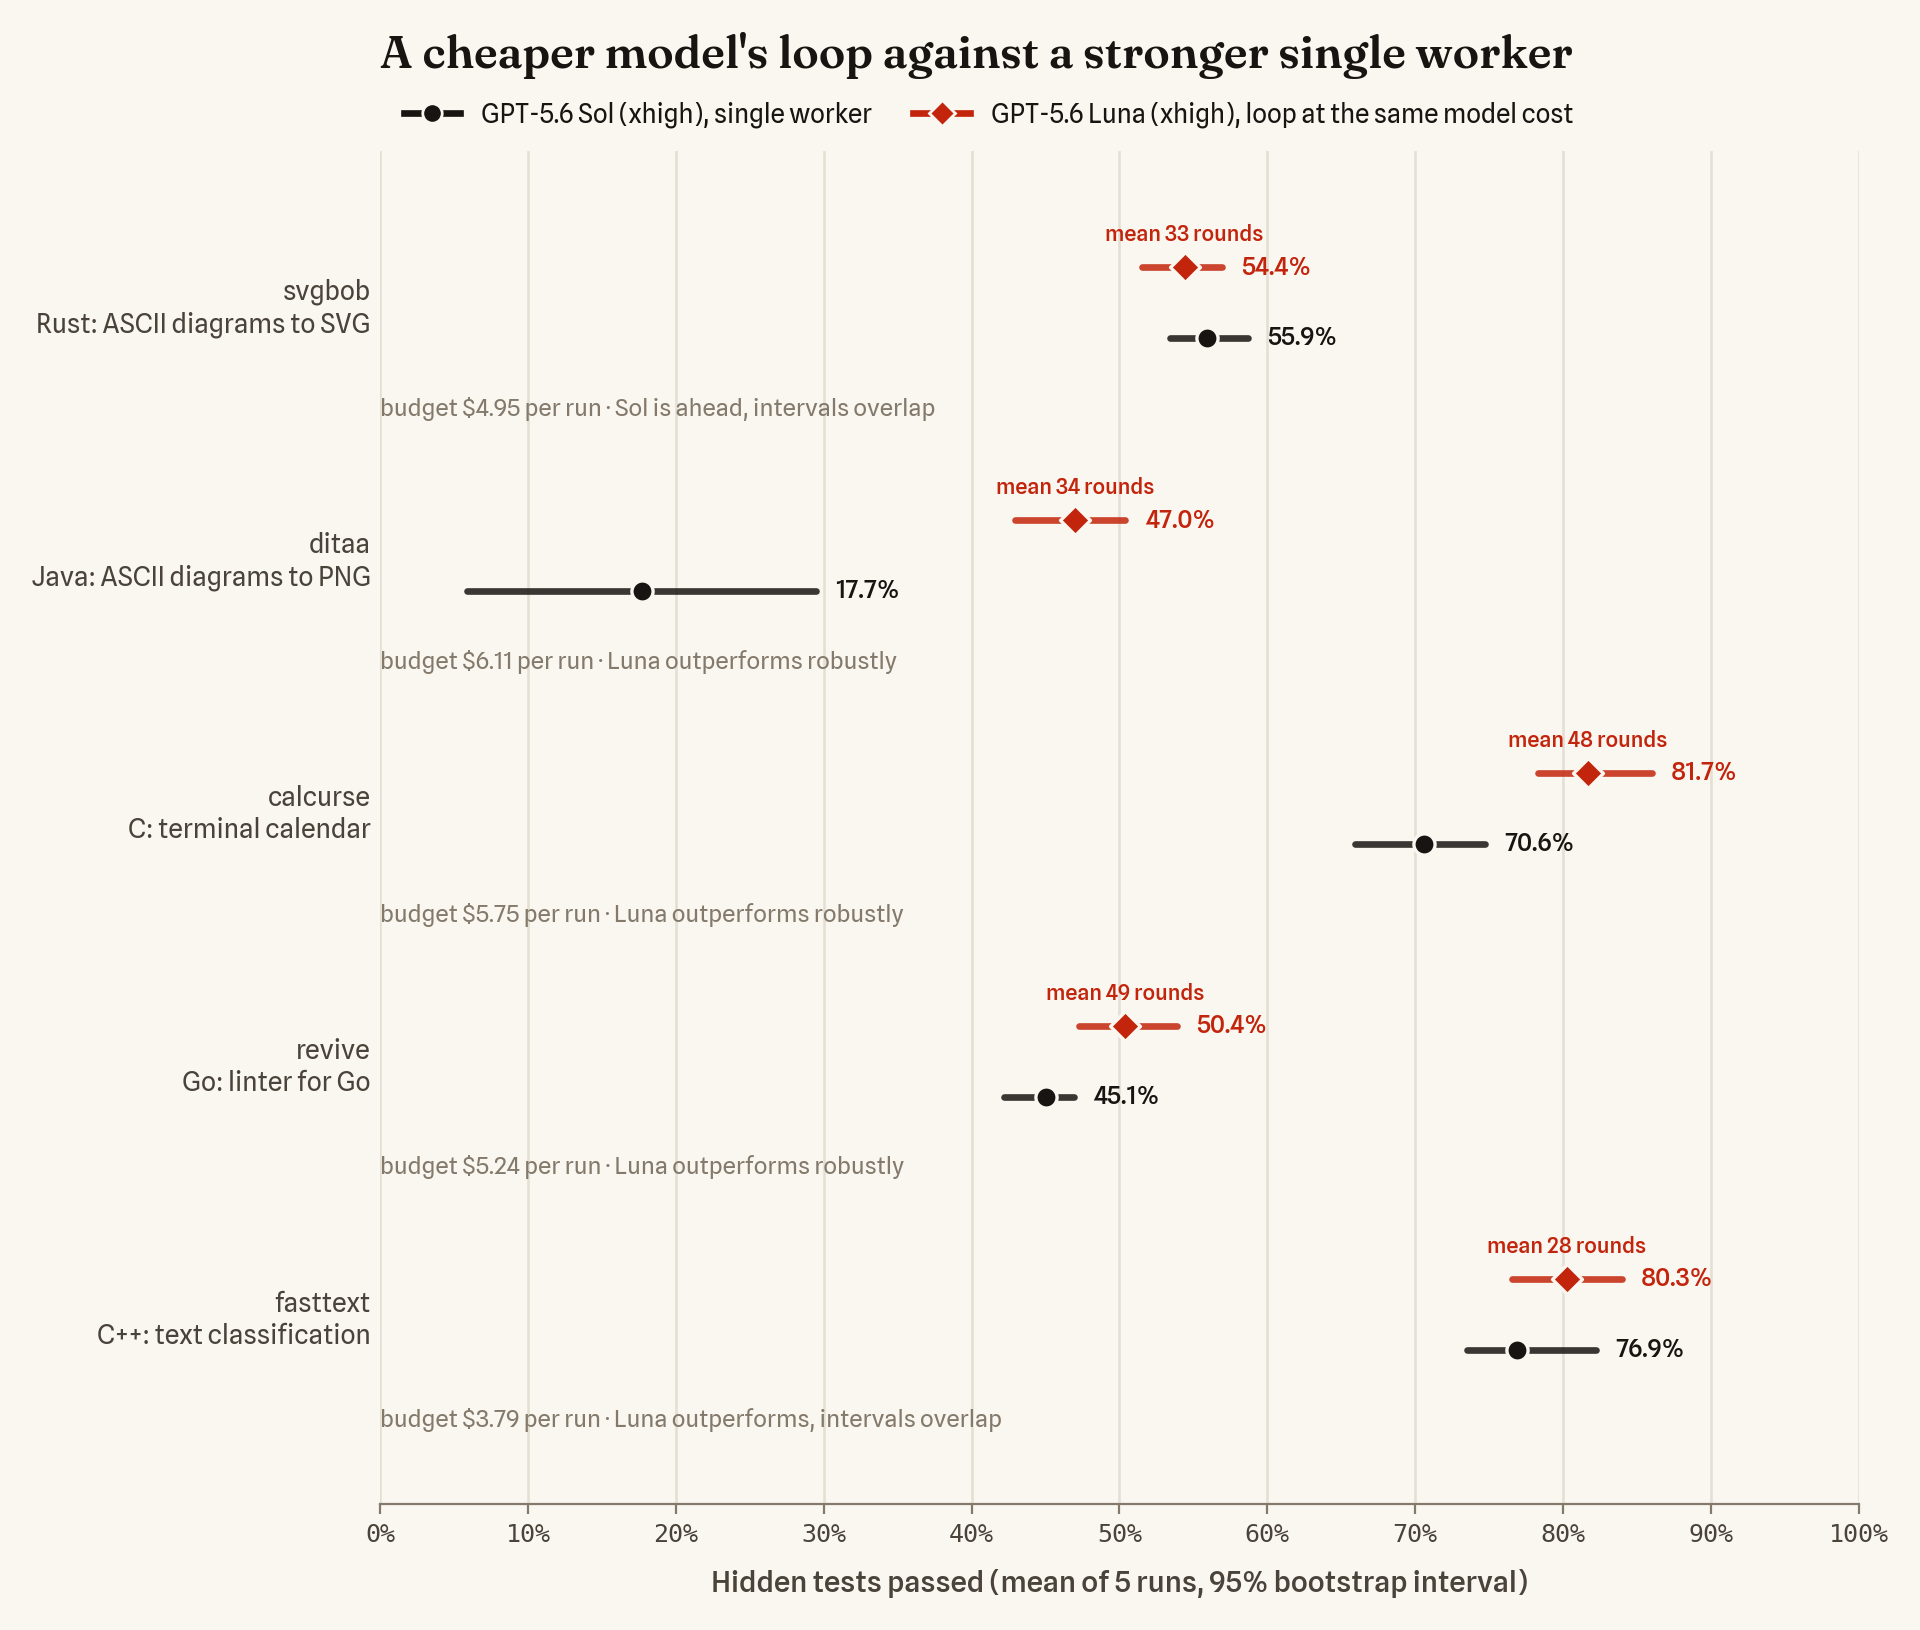
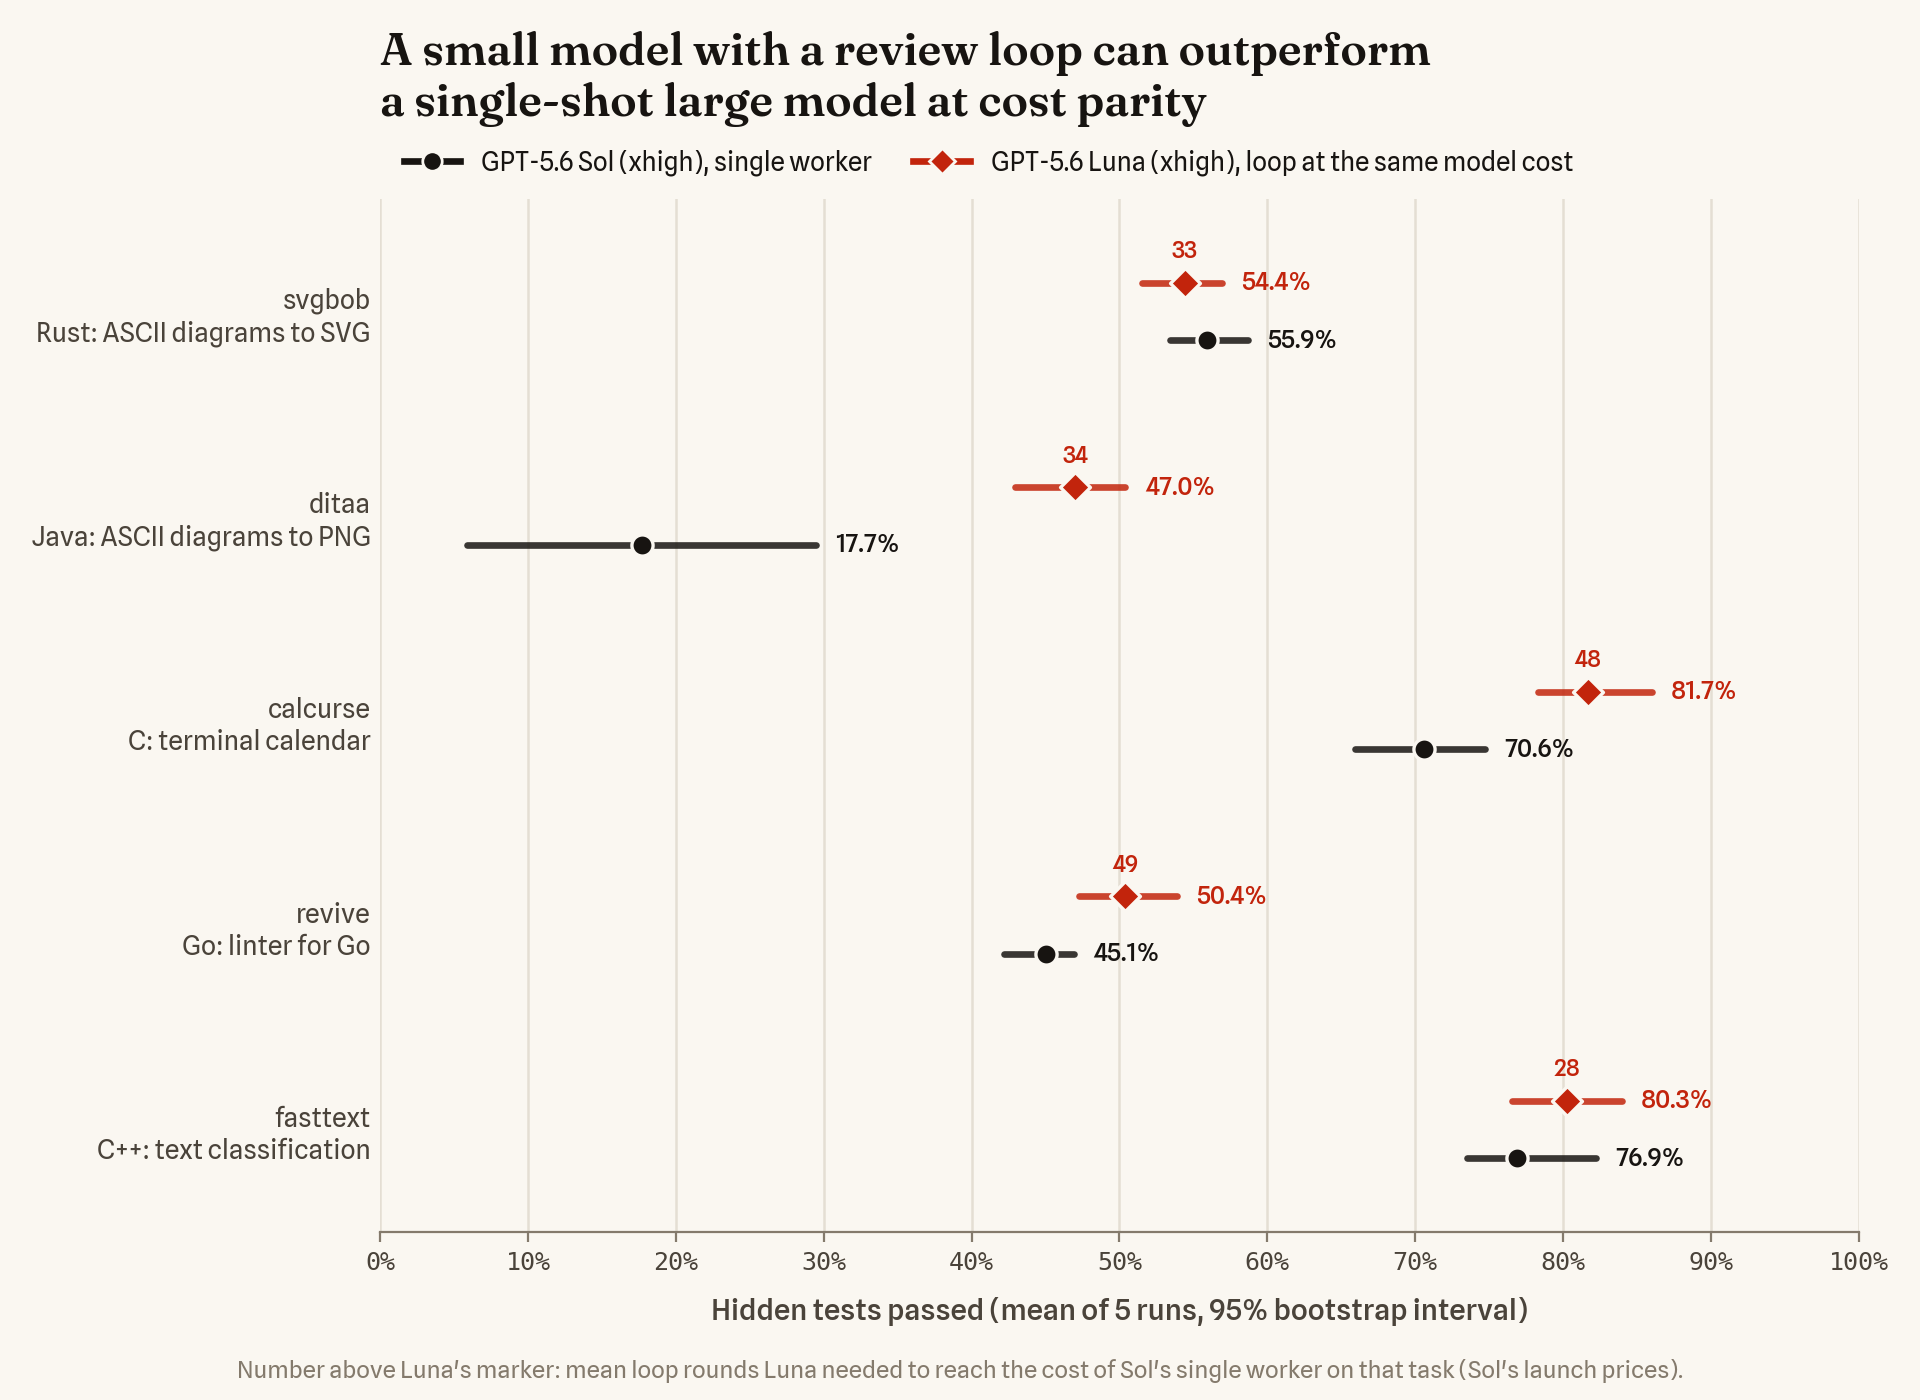
feat(benchmarks): cost-parity figure states the insight as its title
The title is now the study's insight ("A small model with a review loop can outperform a
single-shot large model at cost parity"). Luna's markers carry only the mean round count,
explained once at the bottom, and the per-task budget and verdict lines are gone.

diff --git a/benchmarks/programbench/scripts/plot_parity.py b/benchmarks/programbench/scripts/plot_parity.py
@@ -38,7 +38,7 @@ def main(paths: list[Path], prices: str = "promotional") -> Path:
         "xtick.color": MUTED, "ytick.color": MUTED, "xtick.labelcolor": INK_2, "ytick.labelcolor": INK_2,
     })
     tasks = [(t, d) for t, d in TASKS if t in data]
-    fig, ax = plt.subplots(figsize=(9.6, 1.25 * len(tasks) + 1.9), dpi=200)
+    fig, ax = plt.subplots(figsize=(9.6, 1.0 * len(tasks) + 2.0), dpi=200)
     for i, (task, desc) in enumerate(tasks):
         c = data[task]["comparisons"][prices]
         y = len(tasks) - 1 - i
@@ -48,13 +48,11 @@ def main(paths: list[Path], prices: str = "promotional") -> Path:
             ax.annotate(f"{mean:.1f}%", (ci[1], y + dy), xytext=(7, 0), textcoords="offset points", va="center", fontsize=9, color=color, fontweight="medium")
         # The loop rounds Luna's runs needed to reach the budget (their parity workspaces), on average.
         rounds = [r[prices]["rounds"] for r in data[task]["luna_runs"] if not r["excluded"] and not r[prices]["excluded"]]
-        ax.annotate(f"mean {sum(rounds) / len(rounds):.0f} rounds", (c["luna_mean"], y + 0.14), xytext=(0, 8), textcoords="offset points",
-                    ha="center", va="bottom", fontsize=7.8, color=RUST, fontweight="medium")
-        verdict = c["verdict"].replace(" (intervals do not overlap)", "").replace(" (higher mean; intervals overlap)", ", intervals overlap")
-        ax.annotate(f"budget ${c['budget_usd']:.2f} per run · {verdict}", (0, y - 0.42), xycoords=("axes fraction", "data"), fontsize=8.6, color=MUTED, va="center")
+        ax.annotate(f"{sum(rounds) / len(rounds):.0f}", (c["luna_mean"], y + 0.14), xytext=(0, 7), textcoords="offset points",
+                    ha="center", va="bottom", fontsize=8.4, color=RUST, fontweight="medium")
     ax.set_yticks(range(len(tasks)))
     ax.set_yticklabels([f"{t}\n{d}" for t, d in reversed(tasks)], fontsize=9.5, linespacing=1.3)
-    ax.set_ylim(-0.75, len(tasks) - 0.4)
+    ax.set_ylim(-0.5, len(tasks) - 0.45)
     ax.set_xlim(0, 100)
     ax.xaxis.set_major_locator(matplotlib.ticker.MultipleLocator(10))
     ax.xaxis.set_major_formatter(matplotlib.ticker.FormatStrFormatter("%d%%"))
@@ -68,8 +66,11 @@ def main(paths: list[Path], prices: str = "promotional") -> Path:
     handles = [Line2D([], [], color=INK, marker="o", lw=2.4, ms=7, mec=CANVAS, label="GPT-5.6 Sol (xhigh), single worker"),
                Line2D([], [], color=RUST, marker="D", lw=2.4, ms=6.5, mec=CANVAS, label="GPT-5.6 Luna (xhigh), loop at the same model cost")]
     ax.legend(handles=handles, loc="lower left", frameon=False, fontsize=9.3, bbox_to_anchor=(0.0, 1.0), ncol=2, handlelength=2.2, columnspacing=1.6)
-    ax.set_title("A cheaper model's loop against a stronger single worker", loc="left", fontfamily=["Fraunces", "DejaVu Serif"], fontweight="semibold", fontsize=16, color=INK, pad=30)
-    fig.tight_layout()
+    ax.set_title("A small model with a review loop can outperform\na single-shot large model at cost parity", loc="left", fontfamily=["Fraunces", "DejaVu Serif"],
+                 fontweight="semibold", fontsize=16, color=INK, pad=30, linespacing=1.15)
+    fig.text(0.5, 0.012, f"Number above Luna's marker: mean loop rounds Luna needed to reach the cost of Sol's single worker on that task (Sol's {prices} prices).",
+             ha="center", va="bottom", fontsize=8.6, color=MUTED)
+    fig.tight_layout(rect=(0, 0.03, 1, 1))
     out = Path(__file__).resolve().parent.parent / "figures" / f"cost-parity-{prices}.png"
     fig.savefig(out)
     return out
